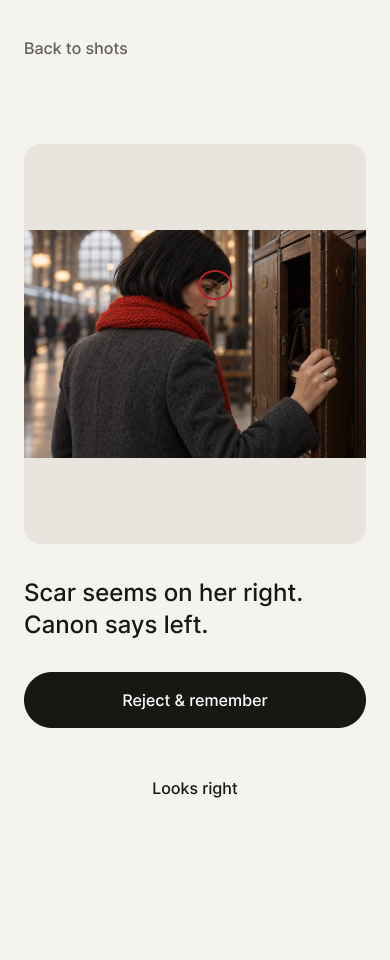
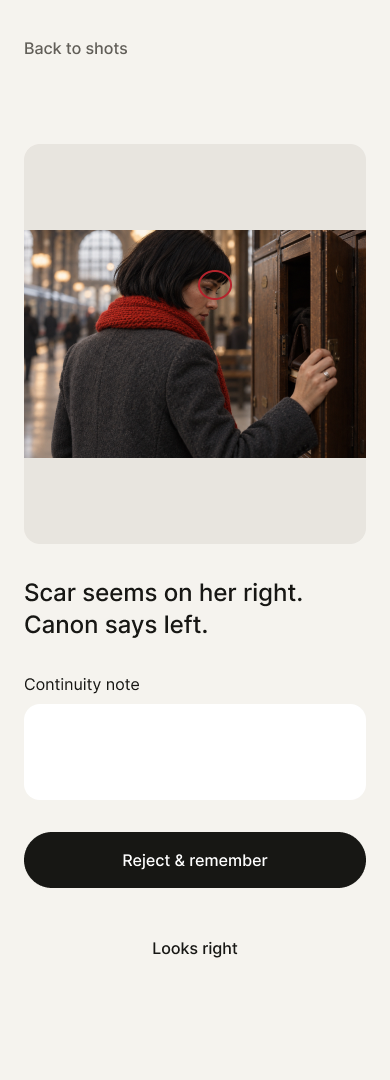
Record public restoration verification and final design comparisons

diff --git a/handoff/MORNING.md b/handoff/MORNING.md
@@ -12,9 +12,9 @@ Updated **October17,2026,12:31am PT**, before the1am checkpoint. Overnight Main/
 
 ## Release
 
-**Final light-v3 design is live and verified**, replacing the earlier dark dashboard. Application foundation `9edc16a`; final review-exit and monitor-qualified wording amendment `911f854` is pushed on main. Final source/document commits are visible in the private repository: https://github.com/alexandrajcowan275/canon.
+**Final light-v3 design is live and verified**, replacing the earlier dark dashboard. Current application `e881d86` restores custom rejection reasons and saved-production navigation on main; original foundation `9edc16a` and review-exit amendment are retained. Final source/document commits are visible in the private repository: https://github.com/alexandrajcowan275/canon.
 
-Verified production deployment: **dpl_BAEjvkXeUGUTWkdnYknWq71x6fU4**, https://canon-m933padwt-archer-rag-dev.vercel.app (main `911f854`, READY; public alias verified). The public link above is the canonical judge entry; unique Vercel deployments may require authentication. Subsequent documentation-only pushes may create a new deployment of the same application; the release above was verified against the canonical public URL.
+Verified production deployment: **dpl_BPQnopq17XoEMthqERfiyBVYzppU**, https://canon-69fs7ndeq-archer-rag-dev.vercel.app (main `e881d86`, READY; public alias verified). The public link above is the canonical judge entry; unique Vercel deployments may require authentication. Subsequent documentation-only pushes may create a new deployment of the same application; the release above was verified against the canonical public URL.
 
 Final editable Figma: https://www.figma.com/design/M6a6owg9izgReM2ejauaos. Specification: [design-v3-implementation.md](design-v3-implementation.md). Desktop/mobile comparisons and public proof: [screenshots/verification](screenshots/verification/). Independent Design found no outstanding material mismatch in inspected views; QA passed the public sample flow and390px layout.
 
@@ -32,13 +32,13 @@ No new actionable issue. Canonical public URL serves READY main deployment `dpl_
 - Original counts remain separate from visitor review decisions. Scar rejection yields the scar rule; it does not substitute a ring example. Memory notes do not rewrite historical images.
 - Progress retains all four actual takes, uncertainty/confounds, full prompt/check/trace evidence and original ring-rule transfer. Known-image markers use source coordinates; full Review images are contained rather than cropped.
 - Graceful saved-capacity response, sample alternative, private ownership and server-side budget/rate guards. Public paid generation stays **disabled** under the no-spending instruction.
--52 tests and production build pass. Final Supabase security advisor reports **No issues found**. All24 public image hashes, four-take replay, acceptance/rejection persistence and isolated sessions pass. Sample flow also works with server AI/database egress blocked.
+-53 tests and production build pass. Final Supabase security advisor reports **No issues found**. All24 public image hashes, four-take replay, acceptance/rejection persistence and isolated sessions pass. Sample flow also works with server AI/database egress blocked.
 
 Evidence: [public review amendment](experiments/public-review-exit-amendment.json), [final main alias](experiments/public-main-release.json), [public sample regression](experiments/public-light-v3-replay.json), [public production persistence](experiments/public-light-v3-productions.json), [character versions](experiments/production-character-versions-local.json), [independent QA](demo-safety.md), [design implementation](design-implementation.md).
 
 ## Founder-requested restoration
 
-Editable400-character rejection reasons and saved-production navigation are restored on the release branch. Local browser/API verification passed: custom text and rule survive refresh, duplicates reuse one ID, original24-shot history stays intact, and an existing owned production reopens from Your productions.53 tests/build pass. Public deployment verification follows this increment. Paid generation remains disabled; [budget plan](api-budget-plan.md) gives the minimum additional allowance before any spend. The one-shot verification option is a proposal, not implemented or authorized.
+Editable400-character rejection reasons and saved-production navigation are live and publicly verified. Local browser/API verification passed: custom text and rule survive refresh, duplicates reuse one ID, original24-shot history stays intact, and an existing owned production reopens from Your productions.53 tests/build pass. Public verification confirms exact note/Memory refresh, blank-note blocking, navigation and owned production API access; see [evidence](experiments/custom-reasons-public.json). Paid generation remains disabled; [budget plan](api-budget-plan.md) gives the minimum additional allowance before any spend. The one-shot verification option is a proposal, not implemented or authorized.
 
 ## Real metrics
 

diff --git a/DECISIONS.md b/DECISIONS.md
@@ -92,3 +92,5 @@ Verified the amendment on canonical public production dpl_BAEjvkXeUGUTWkdnYknWq7
 Founder requested both features explicitly after the status report. Restored the400-character editable continuity note in Review; blank rejection is blocked, drafts survive failed saves/back, and keyboard A/R ignores text editing. The no-paid fallback now preserves the actual creator note instead of replacing it with an older character-sheet expectation. Exact repeat notes reuse one rule ID; distinct constraints on the same attribute do not silently overwrite one another or original experiment provenance. Regression tests cover new constraint content and400-character retention.
 
 Restored saved productions through a dedicated /productions page linked from landing/setup/workspace, and Open your production on the saved-capacity screen. Listing uses the existing ownership-checked API, with loading/empty/error/retry states. Existing owned production and character reopened successfully in the real browser. Mobile has no horizontal overflow.53 tests and production build pass; local custom-note API checks pass without a usable OpenAI key. Paid generation remains off. Budget plan distinguishes a not-yet-implemented one-shot verification ($3.22 from existing remainder) from two current six-shot takes ($19.22 retry headroom, $15.80 additional). No spending or cap change is authorized until founder responds.
+
+Restoration released as e881d86 /dpl_BPQnopq17XoEMthqERfiyBVYzppU and verified on canonical public URL. Blank rejection disabled; exact novel scarf-knot note saved and persisted through refresh; list route and owner-scoped saved production API passed. Public mobile field342×96 at24,704 with full image unchanged and no overflow/errors.53 tests/build pass. Reservation ledger remains$20.58; public generation and cap remain unchanged. Figma amendments and final comparisons retained.
